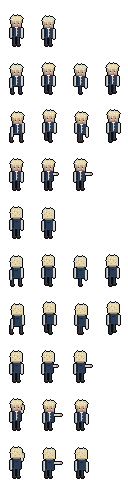
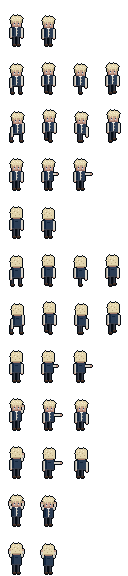
Capítulo 1: Althea golpeia com a espada de madeira e Nicholas finge rendição ou desvia
O gerador desenha o golpe da Althea com a espada de madeira na mão e a
pose de rendição do Nicholas aos 11 (mãos para cima). No quarto da Althea,
as falas CAP1_053, CAP1_099 e CAP1_100 animam a cena; no fim da conversa
todos voltam ao parado.

diff --git a/tools/arte/gerar_personagens.py b/tools/arte/gerar_personagens.py
@@ -30,7 +30,9 @@ PERSONAGENS = {
     # olhos quase brancos dos Olympia, camisa branca e colete azul escuro
     # simples, "parecidas com as usadas pelos filhos dos comerciantes".
     'nicholas_11': dict(
-        topo=17, tronco=9, largura=4, cabelo='rebelde', roupa='colete', golpe=True,
+        # rendicao: as duas mãos para cima ("Nicholas ergueu as mãos, fingindo
+        # rendição", no quarto da Althea).
+        topo=17, tronco=9, largura=4, cabelo='rebelde', roupa='colete', golpe=True, rendicao=True,
         cores=dict(
             cab_luz='#F6EED2', cab='#E3D5AE', cab_sombra='#B9A882', cab_fundo='#8C7C5C',
             camisa_luz='#F2EFE8', camisa='#D9D4CA', camisa_sombra='#A9A398',
@@ -84,9 +86,12 @@ PERSONAGENS = {
     # bochechas rosadas; olhos azuis saturados, como os da mãe (não os
     # desbotados dos Olympia). Vestido azul simples: inferência a partir do
     # vestido que ela ganha de presente; o livro não diz o que ela veste.
+    # Golpe com a espada de madeira do aniversário, "esculpida para o tamanho
+    # de suas mãos": a espada vem desenhada na mão nos quadros do golpe (ela
+    # não usa o Inventario, como a arma do Nicholas).
     'althea_6': dict(
         topo=20, tronco=6, largura=3, cabelo='ombros', roupa='vestido_curto',
-        olho='#3F7CC4', bochecha='#D98C84',
+        olho='#3F7CC4', bochecha='#D98C84', golpe=True, espada_madeira=True,
         cores=dict(
             cab_luz='#F6EED2', cab='#E3D5AE', cab_sombra='#B9A882', cab_fundo='#8C7C5C',
             vestido_luz='#A9C4E0', vestido='#7FA2C8', vestido_sombra='#55779E',
@@ -527,13 +532,35 @@ def braco_estendido(q, x, y, alcance, cor, manga=None):
     q.r(x + alcance + 1, y, x + alcance + 2, y + 1, 'pele')
 
 
-def braco_erguido(q, x, yt, larg, cor):
+def braco_erguido(q, x, yt, larg, cor, lado=1):
     # Braço da frente erguido ao lado da cabeça, preparando o golpe (como o
     # do adulto em gerar_nicholas.py). Desenhado por último, por cima do cabelo.
-    q.r(x + larg + 1, yt - 1, x + larg + 2, yt + 1, cor)
-    q.r(x + larg + 2, yt - 4, x + larg + 3, yt - 2, cor)
-    q.p(x + larg + 1, yt + 1, cor + '_sombra'); q.p(x + larg + 2, yt - 2, cor + '_sombra')
-    q.r(x + larg + 2, yt - 6, x + larg + 3, yt - 5, 'pele')
+    # lado=-1: o mesmo braço espelhado, do outro lado (rendição).
+    def r(dx0, y0, dx1, y1, c):
+        q.r(x + lado * dx0, y0, x + lado * dx1, y1, c)
+    r(larg + 1, yt - 1, larg + 2, yt + 1, cor)
+    r(larg + 2, yt - 4, larg + 3, yt - 2, cor)
+    r(larg + 1, yt + 1, larg + 1, yt + 1, cor + '_sombra'); r(larg + 2, yt - 2, larg + 2, yt - 2, cor + '_sombra')
+    r(larg + 2, yt - 6, larg + 3, yt - 5, 'pele')
+
+
+def espada_madeira(q, mx, my, angulo):
+    # Espada de madeira pequena na mão 2×2 cujo canto é (mx, my), apontando
+    # para onde o ângulo diz (0 = para baixo, 180 = para cima, -90 = para a
+    # frente), como o giro do item na mão (MaosPersonagem.angulos).
+    passo = {0: (0, 1), 180: (0, -1), -90: (1, 0)}[angulo]
+    dx, dy = passo
+    px, py = (abs(dy), abs(dx))            # de lado (a lâmina tem 2 pixels)
+    cx, cy = mx + (1 if dx > 0 else 0), my + (1 if dy > 0 else 0)
+    if dy < 0:
+        cy = my
+    # guarda logo depois do punho e lâmina curta com a ponta mais clara
+    gx, gy = cx + dx, cy + dy
+    for k in (-1, 0, 1):
+        q.p(gx + px * k, gy + py * k, 'madeira_sombra')
+    for i in range(2, 6):
+        q.p(cx + dx * i, cy + dy * i, 'madeira_luz' if i == 5 else 'madeira')
+        q.p(cx + dx * i + px, cy + dy * i + py, 'madeira_sombra')
 
 
 # Roupas do nosso mundo (convidados): 'camiseta' (manga curta), 'moletom'
@@ -631,7 +658,7 @@ def cor_braco(cfg):
     return 'camisa' if cfg['roupa'] == 'colete' else 'vestido'
 
 
-def corpo_frente(q, cfg, x, yt, quadril, larg, b_esq, b_dir, alcance, saia_voa, ergue=False):
+def corpo_frente(q, cfg, x, yt, quadril, larg, b_esq, b_dir, alcance, saia_voa, ergue=False, rende=False):
     roupa = cfg['roupa']
     comp = quadril - yt - 1
     cor_manga = cor_braco(cfg)
@@ -639,7 +666,8 @@ def corpo_frente(q, cfg, x, yt, quadril, larg, b_esq, b_dir, alcance, saia_voa, 
     if roupa in CASUAIS:
         casual_frente(q, cfg, x, yt, quadril, larg, b_esq, b_dir, alcance)
     elif roupa == 'colete':
-        braco(q, x - larg - 2, yt + 1, b_esq, comp, cor_manga, cor_manga + '_sombra')
+        if not rende:
+            braco(q, x - larg - 2, yt + 1, b_esq, comp, cor_manga, cor_manga + '_sombra')
         q.r(x - larg, yt, x + larg, quadril + aba, 'colete')
         q.r(x - larg, yt, x - larg + 1, quadril + aba, 'colete_sombra')
         q.r(x, yt, x, quadril - 1, 'camisa')                       # camisa na abertura
@@ -668,11 +696,11 @@ def corpo_frente(q, cfg, x, yt, quadril, larg, b_esq, b_dir, alcance, saia_voa, 
         q.r(x - 1, yt, x + 1, yt, 'pele')                          # decote
         if alcance:
             braco_estendido(q, x + larg + 1, yt + 2, alcance, cor_manga)
-        else:
+        elif not ergue:
             braco(q, x + larg + 1, yt + 1, b_dir, comp, cor_manga)
 
 
-def corpo_costas(q, cfg, x, yt, quadril, larg, b_esq, b_dir, alcance, saia_voa, ergue=False):
+def corpo_costas(q, cfg, x, yt, quadril, larg, b_esq, b_dir, alcance, saia_voa, ergue=False, rende=False):
     roupa = cfg['roupa']
     comp = quadril - yt - 1
     cor_manga = cor_braco(cfg)
@@ -690,7 +718,8 @@ def corpo_costas(q, cfg, x, yt, quadril, larg, b_esq, b_dir, alcance, saia_voa, 
         q.r(x - 1, yt + 2, x + 1, yt + 2, 'colete_sombra')        # costura das costas
         if not aba:
             q.r(x - larg, quadril, x + larg, quadril, 'calca')
-        braco(q, x - larg - 2, yt + 1, b_esq, comp, cor_manga, cor_manga + '_sombra')
+        if not rende:
+            braco(q, x - larg - 2, yt + 1, b_esq, comp, cor_manga, cor_manga + '_sombra')
     else:
         hem = PE - (3 if roupa == 'vestido_longo' else 5)
         q.r(x - larg, yt, x + larg, quadril, 'vestido')
@@ -789,8 +818,13 @@ def enfeites(q, cfg, dir, x, yt, quadril, larg, saia_voa):
 
 
 def personagem(cfg, dir, f_esq=0, f_dir=0, lift_esq=0, lift_dir=0, dy=0, inclina=0,
-               braco_esq=0, braco_dir=0, alcance=0, voa=0, ergue=False):
+               braco_esq=0, braco_dir=0, alcance=0, voa=0, ergue=False, rende=False, espada=None):
+    # rende: as duas mãos para cima (rendição); espada: ângulo da espada de
+    # madeira na mão da frente (só nos quadros do golpe de quem tem uma).
     cores = dict(BASE)
+    cores.update(MADEIRA)
+    if rende:
+        ergue = True
     cores.update(cfg.get('pele', {}))
     cores.update(cfg['cores'])
     olho = 'olho'
@@ -813,7 +847,7 @@ def personagem(cfg, dir, f_esq=0, f_dir=0, lift_esq=0, lift_dir=0, dy=0, inclina
         capa(q, cfg, dir, x, yt, quadril, larg)
         cabelo_atras_frente(q, estilo, x, yc, ate, voa)
         pernas(q, CX, quadril, f_esq, f_dir, lift_esq, lift_dir)
-        corpo_frente(q, cfg, x, yt, quadril, larg, braco_esq, braco_dir, alcance, voa // 2, ergue)
+        corpo_frente(q, cfg, x, yt, quadril, larg, braco_esq, braco_dir, alcance, voa // 2, ergue, rende)
         enfeites(q, cfg, dir, x, yt, quadril, larg, voa // 2)
         ombros_da_capa(q, cfg, x, yt, larg)
         cabeca_frente(q, dir, x, yc, olho, bochecha)
@@ -824,7 +858,7 @@ def personagem(cfg, dir, f_esq=0, f_dir=0, lift_esq=0, lift_dir=0, dy=0, inclina
             oculos_frente(q, x, yc)
     else:
         pernas(q, CX, quadril, f_esq, f_dir, lift_esq, lift_dir)
-        corpo_costas(q, cfg, x, yt, quadril, larg, braco_esq, braco_dir, alcance, voa // 2, ergue)
+        corpo_costas(q, cfg, x, yt, quadril, larg, braco_esq, braco_dir, alcance, voa // 2, ergue, rende)
         enfeites(q, cfg, dir, x, yt, quadril, larg, voa // 2)
         capa(q, cfg, dir, x, yt, quadril, larg)
         cabeca_costas(q, estilo, x, yc, ate, voa)
@@ -834,6 +868,12 @@ def personagem(cfg, dir, f_esq=0, f_dir=0, lift_esq=0, lift_dir=0, dy=0, inclina
             braco_costas(q, cfg, x, yt, quadril, larg, braco_esq, braco_dir, alcance)
     if ergue:
         braco_erguido(q, x, yt, larg, cor_braco(cfg))
+    if rende:
+        braco_erguido(q, x, yt, larg, cor_braco(cfg), -1)
+    if espada is not None:
+        mx, my = mao(cfg, dir, f_esq, f_dir, lift_esq, lift_dir, dy, inclina, braco_esq, braco_dir,
+                     alcance, voa, ergue)
+        espada_madeira(q, mx, my, espada)
     return q.contornar()
 
 
@@ -851,12 +891,28 @@ ANIM = {
     # golpe de espada, só de quem tem cfg['golpe'] (o Nicholas que luta):
     # ergue, corta para a frente, termina com a lâmina baixa, como o adulto
     'golpe':       [dict(ergue=True), dict(alcance=5, inclina=1, dy=1), dict(braco_dir=1, inclina=1, dy=1)],
+    # rendição fingida, só de quem tem cfg['rendicao']: as duas mãos para cima
+    'rendicao':    [dict(rende=True), dict(rende=True, dy=1)],
 }
+# Espada de madeira (Althea): madeira clara, a mesma das tábuas.
+MADEIRA = dict(madeira_luz='#D8B47E', madeira='#A97C4A', madeira_sombra='#6E4C2C')
 ORDEM = ['parado', 'andando', 'correndo', 'interagindo']
-VELOCIDADE = {'parado': 2.0, 'andando': 8.0, 'correndo': 12.0, 'interagindo': 10.0, 'golpe': 12.0}
+VELOCIDADE = {'parado': 2.0, 'andando': 8.0, 'correndo': 12.0, 'interagindo': 10.0, 'golpe': 12.0,
+              'rendicao': 2.0}
 # Giro do item na mão em cada quadro, em graus (0 = ponta para baixo).
 ANGULOS = {'golpe': [180, -90, 0]}
 DIRS = ['frente', 'costas']
+
+
+def quadros(cfg, a):
+    # Os quadros da animação para este personagem. O golpe da Althea leva a
+    # espada de madeira na mão e corta mais perto do corpo (o braço dela é
+    # curto e a lâmina sairia do quadro).
+    lista = ANIM[a]
+    if a == 'golpe' and cfg.get('espada_madeira'):
+        lista = [dict(k, espada=ANGULOS[a][i], alcance=min(k.get('alcance', 0), 2))
+                 for i, k in enumerate(lista)]
+    return lista
 
 
 def linhas_da_folha(cfg):
@@ -864,6 +920,8 @@ def linhas_da_folha(cfg):
     linhas = [(d, a) for d in DIRS for a in ORDEM]
     if cfg.get('golpe'):
         linhas += [(d, 'golpe') for d in DIRS]
+    if cfg.get('rendicao'):
+        linhas += [(d, 'rendicao') for d in DIRS]
     return linhas
 
 
@@ -871,7 +929,7 @@ def folha(cfg):
     linhas = linhas_da_folha(cfg)
     im = Image.new('RGBA', (W * 4, HH * len(linhas)), (0, 0, 0, 0))
     for linha, (d, a) in enumerate(linhas):
-        for i, k in enumerate(ANIM[a]):
+        for i, k in enumerate(quadros(cfg, a)):
             im.paste(personagem(cfg, d, **k), (i * W, linha * HH))
     return im, linhas
 
@@ -897,13 +955,13 @@ def sprite_frames(id, linhas, caminho=None):
 
 
 def mao(cfg, dir, f_esq=0, f_dir=0, lift_esq=0, lift_dir=0, dy=0, inclina=0,
-        braco_esq=0, braco_dir=0, alcance=0, voa=0, ergue=False):
+        braco_esq=0, braco_dir=0, alcance=0, voa=0, ergue=False, rende=False, espada=None):
     # Canto de cima à esquerda da mão 2×2 do braço da frente (o da direita
     # na tela), com as mesmas contas de personagem().
     x = CX + inclina
     yt = cfg['topo'] + dy + 10
     larg = cfg['largura']
-    if ergue:
+    if ergue or rende:
         return (x + larg + 2, yt - 6)
     if alcance:
         return (x + larg + 2 + alcance, yt + 2)
@@ -912,10 +970,12 @@ def mao(cfg, dir, f_esq=0, f_dir=0, lift_esq=0, lift_dir=0, dy=0, inclina=0,
 
 
 def mao_tras(cfg, dir, f_esq=0, f_dir=0, lift_esq=0, lift_dir=0, dy=0, inclina=0,
-             braco_esq=0, braco_dir=0, alcance=0, voa=0, ergue=False):
+             braco_esq=0, braco_dir=0, alcance=0, voa=0, ergue=False, rende=False, espada=None):
     # Mão do braço de trás (o da esquerda na tela), onde vai o escudo.
     x = CX + inclina
     yt = cfg['topo'] + dy + 10
+    if rende:
+        return (x - cfg['largura'] - 3, yt - 6)
     comp = cfg['tronco'] - 1
     return (x - cfg['largura'] - 2, yt + 1 + braco_esq + comp + 1)
 
@@ -926,9 +986,9 @@ def maos_tres(cfg):
     linhas, tras, giros = [], [], []
     for d, a in linhas_da_folha(cfg):
         linhas.append('&"%s_%s": PackedVector2Array(%s)' % (
-            a, d, ', '.join('%d, %d' % mao(cfg, d, **k) for k in ANIM[a])))
+            a, d, ', '.join('%d, %d' % mao(cfg, d, **k) for k in quadros(cfg, a))))
         tras.append('&"%s_%s": PackedVector2Array(%s)' % (
-            a, d, ', '.join('%d, %d' % mao_tras(cfg, d, **k) for k in ANIM[a])))
+            a, d, ', '.join('%d, %d' % mao_tras(cfg, d, **k) for k in quadros(cfg, a))))
         if a in ANGULOS:
             giros.append('&"%s_%s": PackedFloat32Array(%s)' % (a, d, ', '.join(str(g) for g in ANGULOS[a])))
     return ('[gd_resource type="Resource" script_class="MaosPersonagem" format=3]\n\n'
